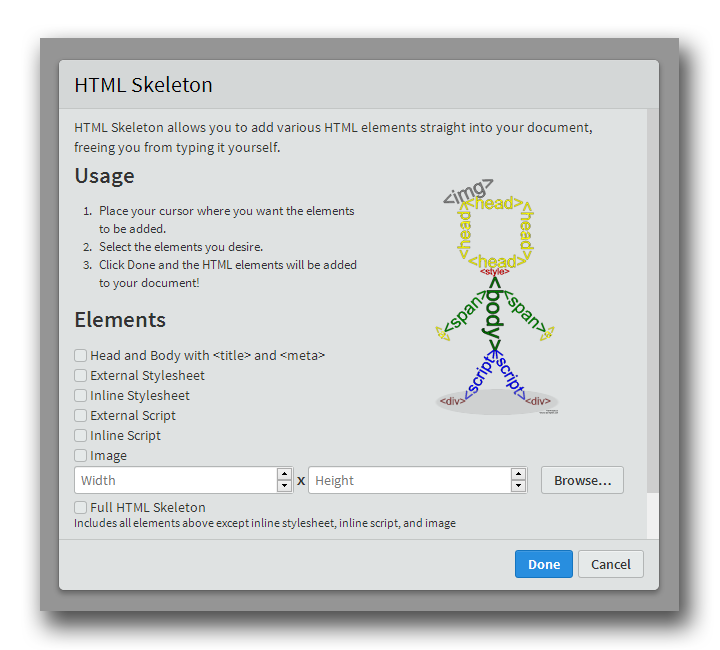
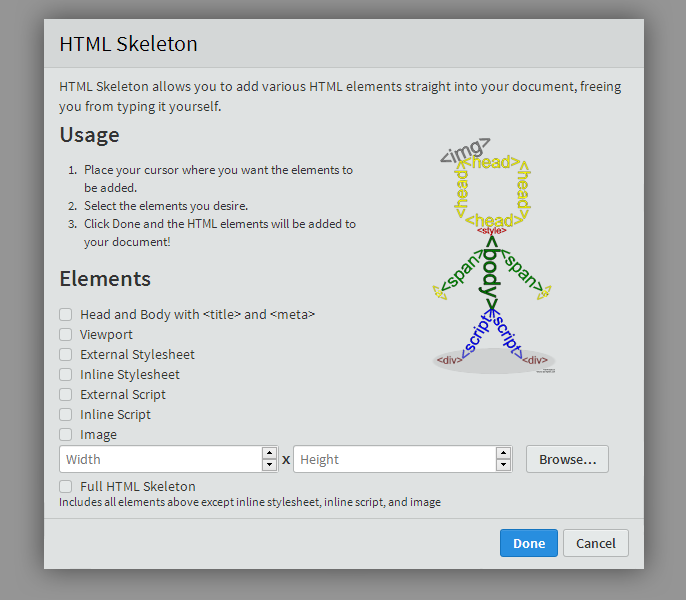
v1.3.3

diff --git a/README.md b/README.md
@@ -3,13 +3,11 @@
 A [Brackets](http://brackets.io) extension that allows you to add various HTML elements straight into your document, freeing you from typing it yourself.
 
 # Installation #
-
 Method 1: Open the Brackets Extension Manager and search for "skeleton"
 
 Method 2: Download a `.zip` directly from GitHub using either the [latest revision](https://github.com/le717/brackets-html-skeleton/archive/master.zip) or [tagged release](https://github.com/le717/brackets-html-skeleton/releases) and drag it onto the "Drag .zip here" area in the Extension Manager
 
 # Usage #
-
 1. Place your cursor in the location you want to insert the elements
 2. Open the dialog by going to `Edit > Insert HTML Elements`
 3. Select the desired elements, and press Done
@@ -18,11 +16,9 @@ Method 2: Download a `.zip` directly from GitHub using either the [latest revisi
 ![HTML Skeleton screenshot](img/HTML-Skeleton.png)
 
 # News #
-
 See [NEWS.md](NEWS.md) for all changes.
 
 # License #
-
 [The MIT License](LICENSE.md)
 
 Created 2014 [Triangle717](http://le717.github.io)

diff --git a/NEWS.md b/NEWS.md
@@ -1,8 +1,8 @@
 # Changes #
 
 ## 1.3.3 ##
-## ?? October, 2014 ###
-* Split indentation-related code into seperate module
+## 20 October, 2014 ###
+* Split indentation-related code into separate module
 * Internally store skeleton snippets in an object
 * Add viewport `<meta>` tag option
 * Enlarge dialog height by `20px`
